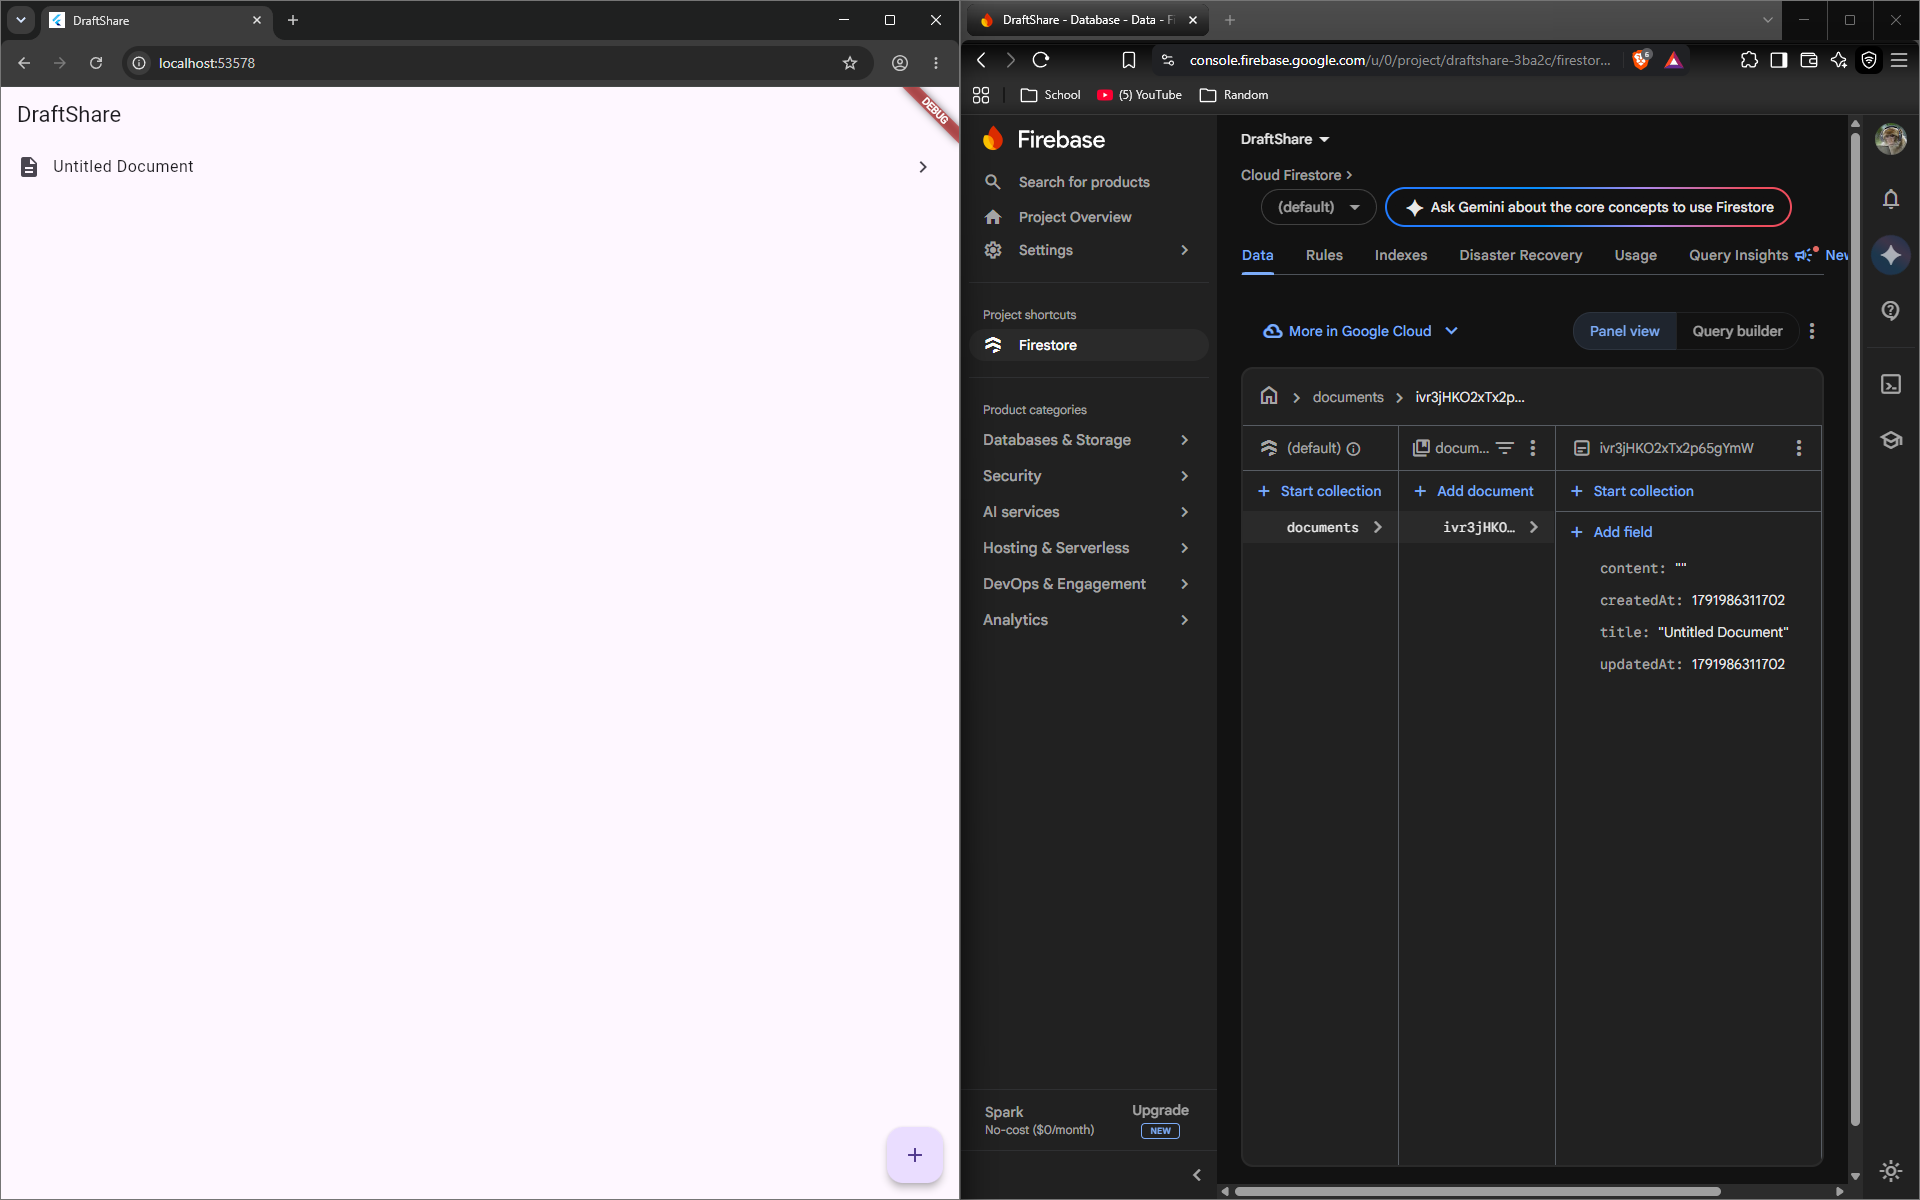
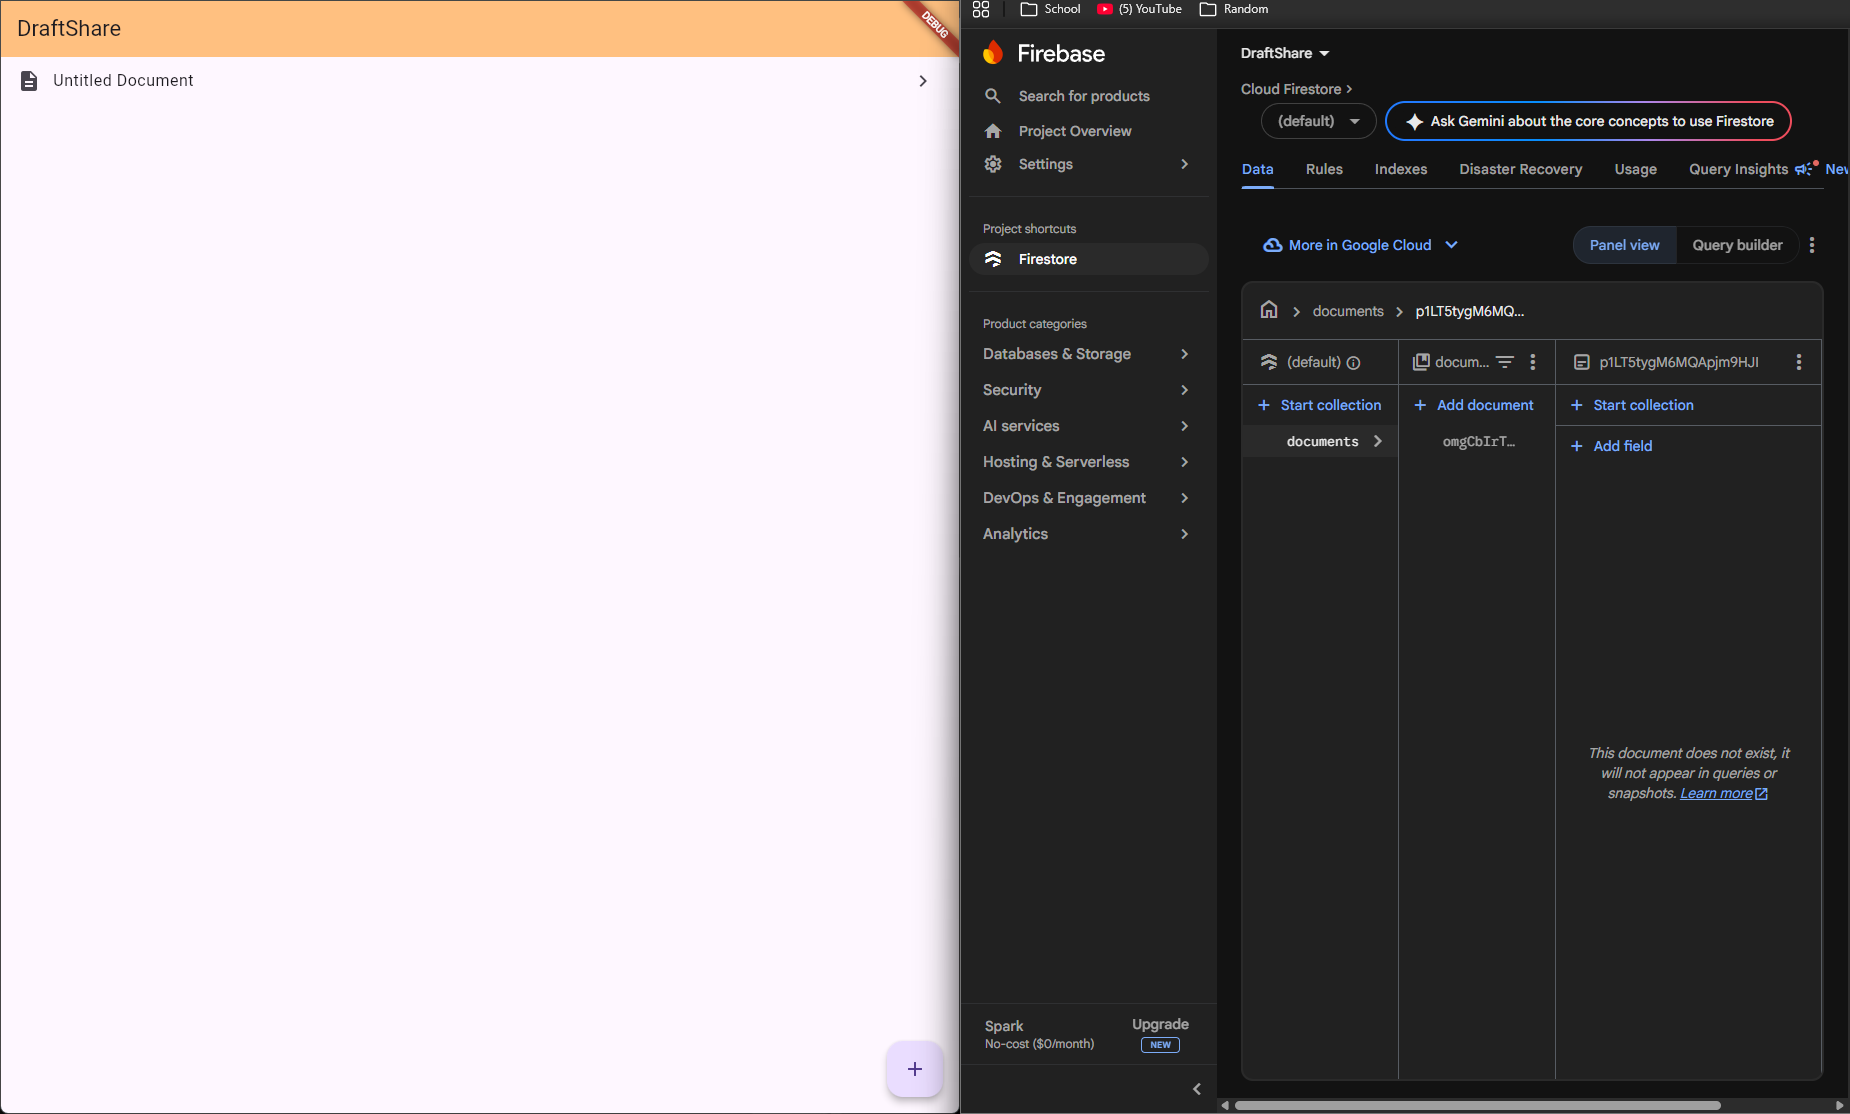
Updated photos and readme with new features

Changed region(s): [[0.0, 0.0, 1.0, 1.0]]

diff --git a/README.md b/README.md
@@ -4,20 +4,20 @@ A cloud document editor where the user creates plain-text documents, edits and r
 
 ## Who the app is for
 
-DraftShare is for people who want a simple place to keep plain-text notes and drafts that follow them between devices, some exaples:
+DraftShare is for people who want a simple place to keep plain-text notes and drafts that follow them between devices, for example:
 
 - Students on a group project who want one shared pool of notes (meeting notes, outlines, to-do lists) that everyone can open and edit.
 - Anyone who writes something on a phone and wants to keep working on it from a laptop without emailing themselves a file.
 
 ## What it does
 
-DraftShare keeps every document in a Cloud Firestore collection and shows them in a live list. Tapping **+** creates a new document and opens it in the editor. In the editor you can rename the document by editing the title at the top, write in a full-screen text box, and tap the save icon to write the title and text back to the cloud. Because every device reads from the same collection, a document created or saved on one device shows up on the others.
+DraftShare keeps every document in a Cloud Firestore collection and shows them in a live list. Tapping **+** creates a new document and opens it in the editor. In the editor you can rename the document by editing the title at the top, write in a full-screen text box, and tap the save icon to write the title and text back to the cloud. Pressing and holding a document in the list brings up a menu to delete it. Because every device reads from the same collection, a document created, saved, or deleted on one device shows up the same way on the others.
 
 ## Why it's useful
 
 - Your text lives in the cloud, not on one device, so closing the app or switching devices never loses a document.
 - There is nothing to export, attach, or upload to move a note between devices.
-- The document list updates live, so a new or renamed document appears without refreshing.
+- The document list updates live, so a new, renamed, or deleted document appears without refreshing.
 - All storage code lives in one class (`DocumentStorage`), so the screens never talk to Firebase directly. That makes the app easy to read, change, and test.
 
 ## Features
@@ -26,17 +26,18 @@ DraftShare keeps every document in a Cloud Firestore collection and shows them i
 - Create a new document with one tap
 - Edit the document title and text in the editor
 - Save changes back to the cloud, with a confirmation message
+- Delete a document: press and hold it in the list, then confirm in the menu
 - Same documents on every device
 - Navigation between the list screen and the editor screen
-- Hold down on one of the list items to summon a menu asking to delete that item
+- Color theme on both screens
 
 ### Known limitations
 
 - Saving is manual. Changes are only written when you tap the save icon.
 - Last save wins. If two people save the same document, the later save overwrites the earlier one.
 - The editor loads a document's text once, so reopen a document to see changes saved from another device. The list does update live.
-- You cannot upload a `.txt` file , and the title of a file can only be changed after the document is created.
-- if you delete an item, it is deleted from the cloud storage. Any user can delete any item at any time.
+- You cannot upload a `.txt` file, and the title can only be changed after the document is created.
+- Deleting is permanent. A deleted document is removed from Cloud Firestore, and since there is no sign-in, any user can delete any document at any time.
 - There is no sign-in. The Firestore rules are open on purpose for this class project, so anyone with the app can read and write every document.
 
 ## Screenshots
@@ -50,6 +51,8 @@ The right side of each screenshot is the Firebase console, so you can see the da
 ![Rename_and_Save](cloudy_outlook_group2/images/Updated_On_Editor.png)
 
 ![List_Updated](cloudy_outlook_group2/images/Updated_On_List.png)
+
+![Delete_Feature](cloudy_outlook_group2/images/Delete_Feature.png)
 
 ## Built with / Resources
 
